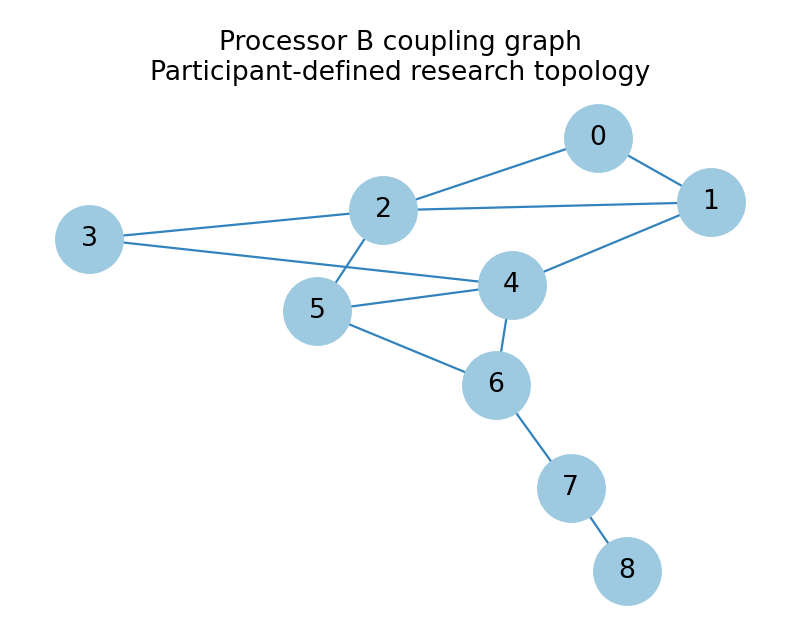
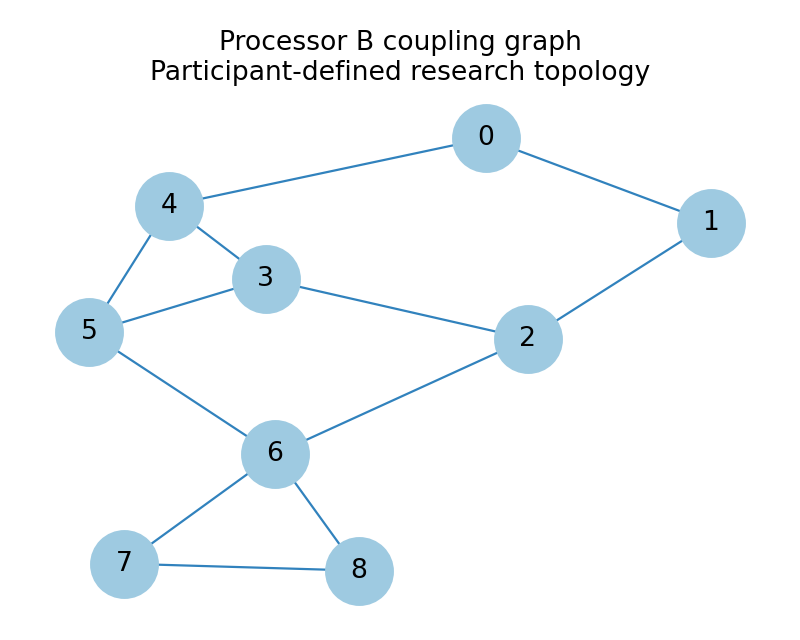
Regenerate Phase 1 benchmark evidence

diff --git a/report.md b/report.md
@@ -1,44 +1,46 @@
 # P2 Report — Crypto Inventory & Migration Planner
 
-## Project scope
+## What changed?
+The inventory was scored with the specified lookup tables, and each asset received a migration recommendation and phase. The same marked-state Grover circuit was compiled and executed on both participant-defined research processor models. The guide specifies Processor A as 5 qubits and Processor B as 9 qubits, with basis gates rz/sx/x/cx and the required simulator noise settings. The coupling maps are participant-designed undirected research graphs: A is a five-node branching tree; B is a connected nine-node, 12-edge graph containing two triangles. Noise values are controlled simulator assumptions, not hardware calibration measurements.
 
-The project combines a static cryptographic inventory scanner and migration planner with a separate Qiskit A/B architecture experiment. The Grover experiment is an educational topology comparison; it does not estimate the cost of attacking real RSA/ECC keys.
+## Benchmark settings
+The benchmark follows the guide settings: 4096 shots, optimization level 1, seed 42, one-qubit depolarizing error 0.001, CX depolarizing error 0.005, and readout error 0.01. These are illustrative simulator assumptions, not official calibration data. The measurements reported below are generated by this notebook run using these settings.
 
-## Scanner status
+## PS-P2 public-repository scanner evaluation
+The local synthetic fixture is a demonstration only. Run `python scripts/evaluate_public_repo.py --repo psf/requests --ref main` to scan a public repository and record scanner execution time. Precision and recall remain pending until a complete manual ground-truth audit is supplied; this report does not claim unmeasured values.
 
-The scanner targets RSA, DSA, DH, and ECC-related evidence and records source path, line number, matched evidence, likely cryptographic role, and conditional NIST migration guidance. Hash-only and symmetric-only matches are excluded from the PS-P2 public-key scanner metric.
+## Which architectural property changed?
+Processor A uses coupling edges [[0, 1], [0, 2], [0, 3], [3, 4]] with graph properties {'undirected_edge_count': 4, 'triangle_count': 0, 'diameter': 3}; Processor B uses coupling edges [[0, 1], [1, 2], [2, 3], [3, 4], [4, 5], [5, 6], [6, 7], [7, 8], [3, 5], [6, 8], [0, 4], [2, 6]] with graph properties {'undirected_edge_count': 12, 'triangle_count': 2, 'diameter': 4}. B has two local triangles and a smaller diameter than a long chain would have; this is the participant-defined topology rationale. The participant-selected basis gates and simulator noise parameters are controlled assumptions, not hardware calibration values.
 
-Run the public-repository scan with:
+## Did transpilation add routing?
+Using the all-to-all baseline, Processor A compiled to 48 counted two-qubit gates versus 24 baseline, for an estimated SWAP overhead of 8.000000; explicit measured SWAP instructions were 0. Processor B compiled to 24 versus 24 baseline, for an estimated SWAP overhead of 0.000000; explicit measured SWAP instructions were 0. This distinguishes direct SWAP instructions from the estimate extra two-qubit gates divided by three.
 
-```powershell
-python scripts/evaluate_public_repo.py --repo psf/requests --ref v2.34.2
-```
+## How many extra operations?
+The total compiled operation counts were 120 for Processor A and 96 for Processor B; extra two-qubit counts versus baseline were 24 and 0.
 
-Download time and scanner execution time are measured separately. Precision and recall must not be reported until all candidate findings and missed true positives in the declared audit scope have been checked against a complete, manually reviewed ground-truth set. Regex findings are candidates, not proof of a vulnerability.
+## Did the problem metric change?
+For this three-qubit Grover circuit, the fixed seed and optimizer selected equivalent routing metrics on the two research graphs; that is a legitimate result for this workload, not evidence that the graphs are identical. A topology-sensitive regression circuit is tested separately. The measured success probabilities for state `101` were 0.741699 ± 0.006839 for Processor A and 0.814209 ± 0.006077 for Processor B. The difference (B − A) was 0.072510. Ideal reference probabilities were 0.949463 and 0.949463.
 
-## Processor models and topology rationale
+## Could gate-set/noise differences also contribute?
+Yes. This run keeps basis gates and the default placeholder noise model identical, but transpilation can produce different gate counts and layouts. If official processor data changes basis gates, ports, calibration, or noise, those factors can contribute and must be reported separately.
 
-- **Processor A:** 5 qubits, 4 undirected edges, 0 triangles, graph diameter 3. This is a branching tree with limited connectivity.
-- **Processor B:** 9 qubits, 12 undirected edges, 2 triangles, graph diameter 4. Its triangles are on nodes 3-4-5 and 6-7-8. The local dense neighborhoods and additional chords are intentional design choices for examining connectivity effects.
-- **Basis gates:** `rz`, `sx`, `x`, `cx`.
-- **Controlled simulator settings:** 4096 shots, optimization level 1, seed 42, one-qubit depolarizing error 0.001, CX depolarizing error 0.005, readout error 0.01.
+## Why both components belong in this project?
+The inventory planner answers which cryptographic assets an organization should migrate first. The Grover experiment answers the separate Phase 1 architecture question: how processor topology changes execution of the same quantum solution. It is not a measurement of the cost of attacking real RSA or ECC implementations.
 
-The guide does not provide official Processor A/B JSON files; participants are expected to design and justify coupling maps. The graphs are participant-defined research models. JSON edges are treated as undirected physical couplings and expanded in both directions for Qiskit. Noise values are simulator assumptions, not hardware calibration measurements.
+## What remains uncertain?
+The guide intentionally does not provide official Processor A/B JSON files. This submission therefore defines and documents its own reproducible A/B graphs while following the specified qubit counts, basis gates, and benchmark settings. The graphs are research models, not claims about hidden official edge lists or calibrated hardware. Runtime is environment-dependent. The SWAP value is an estimate rather than a direct decomposition count.
 
-## Benchmark evidence status
+## Limitations
+A toy three-qubit Grover run does not estimate the cost of attacking real RSA/ECC keys. It is an educational architecture comparison, not a cryptanalytic forecast.
+## Supplementary topology stress test
 
-The topology and coupling-map interpretation changed after earlier result files were generated. Do not use older benchmark numbers. Execute every cell in `main.ipynb` from a clean environment to regenerate the A/B comparison, figures, stress-test table, report, and README result table. The CI workflow runs the notebook and uploads regenerated evidence as an artifact. Only those regenerated values should be cited.
+The required three-qubit Grover benchmark can produce identical A/B metrics even when the participant-defined coupling maps differ. Supplementary synthetic workloads probe topology sensitivity without replacing the required benchmark.
 
-## Interpretation rules
+| Workload | A depth | B depth | A two-qubit gates | B two-qubit gates | A estimated SWAP-equivalents | B estimated SWAP-equivalents |
+|---|---:|---:|---:|---:|---:|---:|
+| star | 4 | 4 | 4 | 4 | 0.000 | 0.000 |
+| chain | 8 | 8 | 8 | 8 | 1.000 | 1.000 |
+| ring | 12 | 12 | 12 | 12 | 2.000 | 2.000 |
 
-- Report measured success probability with its standard error, compiled depth, counted two-qubit gates, physical qubits, total operations, and runtime.
-- Distinguish explicitly counted SWAP instructions from the estimated SWAP-equivalent proxy (extra two-qubit gates divided by three).
-- Explain any tie using the actual transpiled circuit and graph properties; a tie on one workload does not imply identical graphs.
-- Compare the required Grover workload separately from supplementary star, chain, and ring stress tests.
-- Do not generalize a tiny three-qubit circuit to large-scale cryptanalysis or real hardware.
+Estimated SWAP-equivalents are extra two-qubit gates over an all-to-all baseline divided by three; this is a proxy, not a direct SWAP count. Results are simulator/compiler metrics for participant-defined models, not official hardware results or cryptographic attack estimates.
 
-## Reproducibility and limitations
-
-Install the pinned Python 3.12 dependencies from `requirements.txt`, run `python -m pytest -q`, `python validate_processors.py`, and execute `main.ipynb` in a clean kernel. The validator checks the participant-defined models' structure, graph properties, and guide settings; it does not authenticate hardware.
-
-The scanner's precision and recall remain unverified until the manual ground-truth audit is complete. Benchmark results must be regenerated and reviewed for the revised topology before submission.
